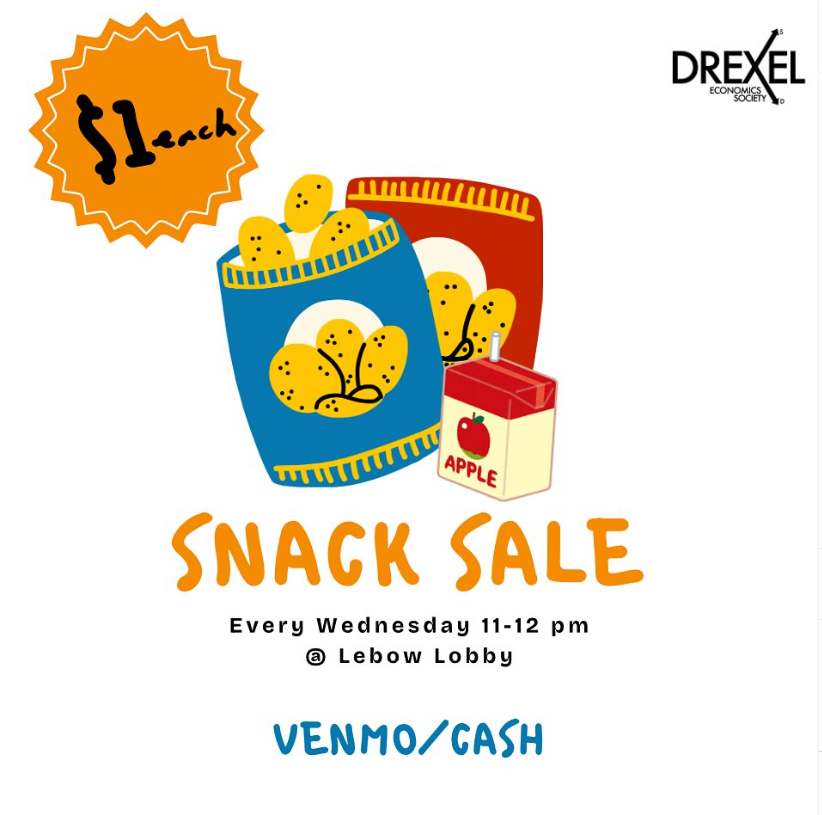
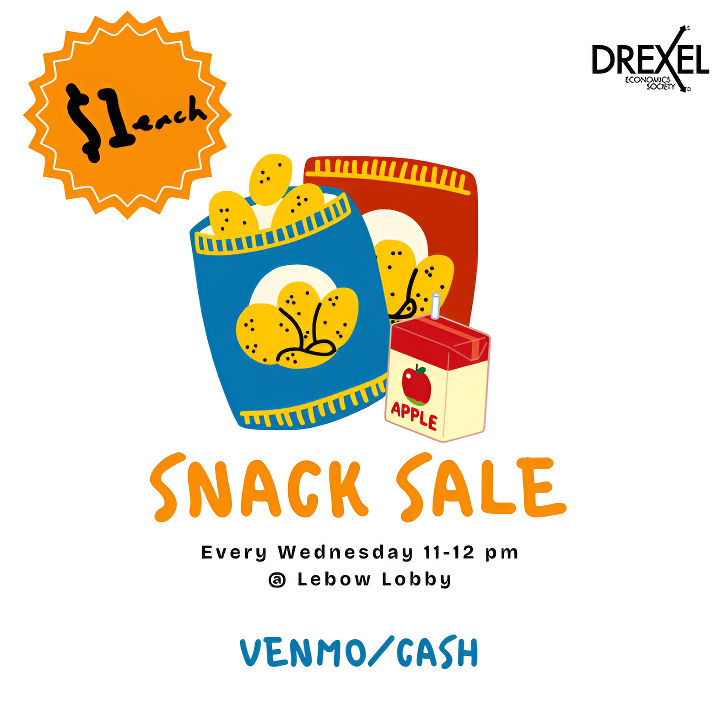
Made 1 change

diff --git a/index.html b/index.html
@@ -87,17 +87,17 @@
 				   			<li>
 				   				<div class="featured-post-slide">
 
-						   			<div class="post-background" style="background-image:url('images/e856fc3e-b091-472d-81ef-fc4e91880fb4.webp');"></div>
+						   			<div class="post-background" style="background-image:url('images/des-winter-24-snack-sale.png');"></div>
 
 								   	<div class="overlay"></div>			   		
 
 								   	<div class="post-content">
 								   		<ul class="entry-meta">
-												<li>February 7th</li> 
-												<li><a href="#" >4PM - 8PM</a></li>				
+												<li>Every Wednesday, 11AM - 12PM 7th</li> 
+												<li><a href="#" >Lebow Lobby</a></li>				
 											</ul>	
 
-								   		<h1 class="slide-title"><a href="event1.html" title="">DES: QDOBA Fundraiser</a></h1> 
+								   		<h1 class="slide-title"><a href="event1.html" title="">DES: Snack Sale</a></h1> 
 								   	</div> 				   					  
 				   			
 				   				</div>
